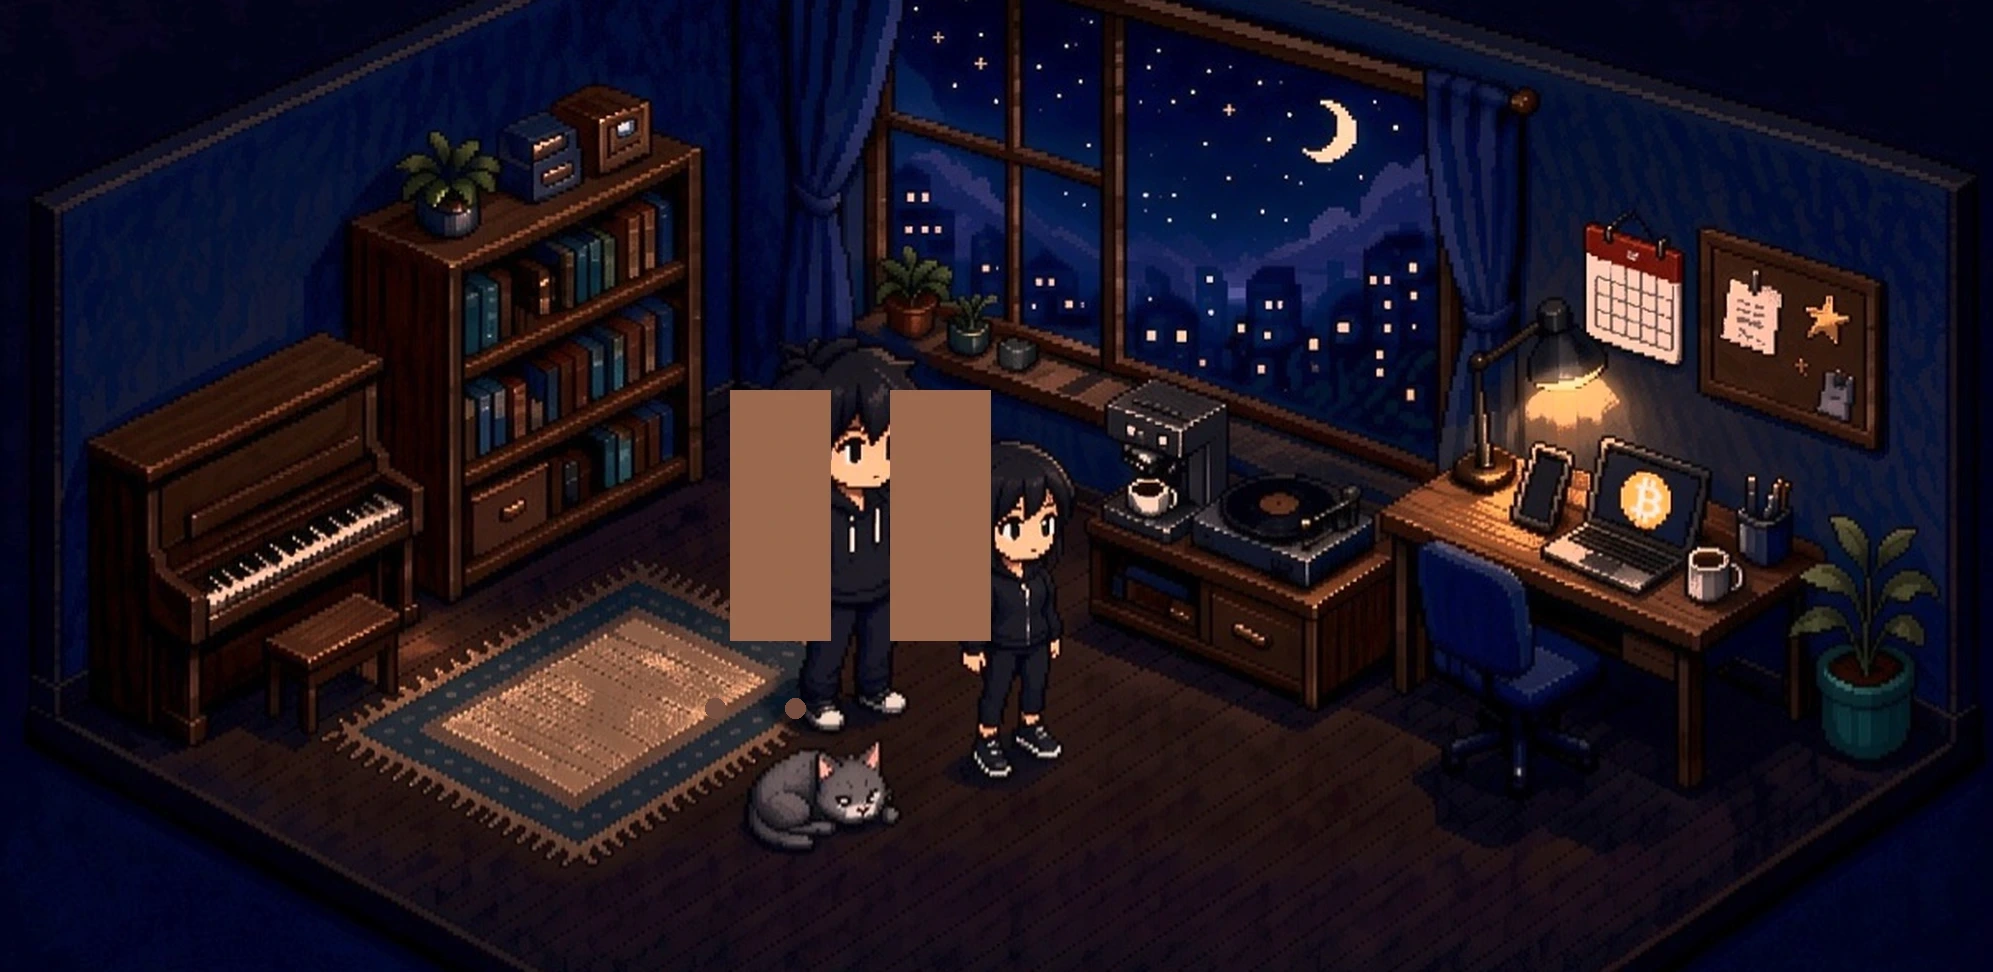
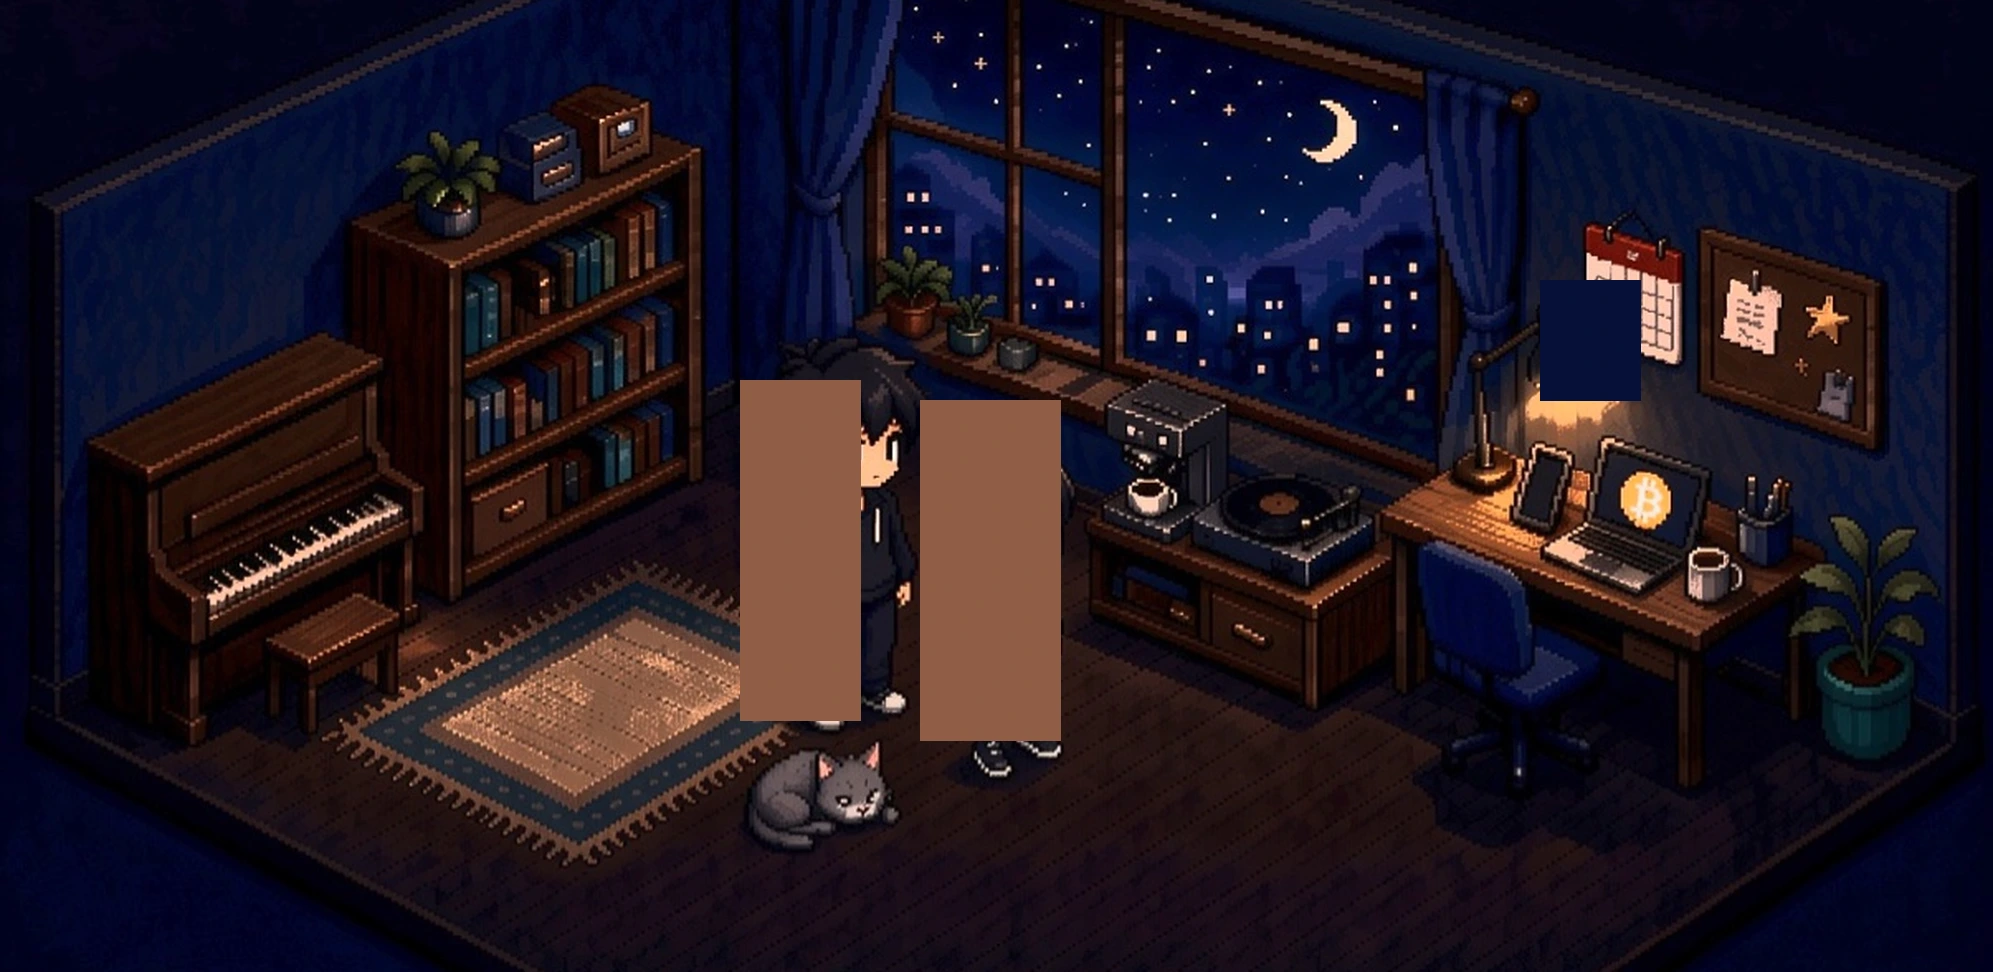
v5.0: SVG rebuild, single viewBox (no misalignment possible). Day/night plates cross-fade 06-18. SVG weather in window (Hangzhou live). Pixel-arrow hints, no text labels. Piano keys + vinyl with day/night coords. Tap-to-walk.

Changed region(s): [[0.3422, 0.3704, 0.56, 0.7716], [0.7466, 0.2778, 0.8399, 0.4321]]

diff --git a/index.html b/index.html
@@ -27,8 +27,6 @@
     display:flex; align-items:center; justify-content:center; font-size:13px; padding:0 12px; text-align:center; }
   .steam { animation:steamUp 2.2s ease-in-out infinite; }
   @keyframes steamUp { 0% { transform:translateY(0); opacity:0; } 30% { opacity:.7; } 100% { transform:translateY(-28px); opacity:0; } }
-  #catTail { transform-box:fill-box; transform-origin:20% 80%; animation:tailWag 2.4s ease-in-out infinite; }
-  @keyframes tailWag { 0%,100% { transform:rotate(-8deg); } 50% { transform:rotate(12deg); } }
   #vinyl { transform-box:fill-box; transform-origin:center; }
   #vinyl.spin { animation:spin 1.8s linear infinite; }
   @keyframes spin { to { transform:rotate(360deg); } }
@@ -45,12 +43,9 @@
 
   <!-- 咖啡热气 -->
   <g id="steam" opacity="0.8">
-    <path class="steam" d="M1520,480 q6,-10 0,-20 q-6,-10 0,-20" stroke="#fff" stroke-width="3" fill="none" opacity="0.6" style="animation-delay:0s"/>
-    <path class="steam" d="M1532,482 q6,-10 0,-20 q-6,-10 0,-20" stroke="#fff" stroke-width="3" fill="none" opacity="0.6" style="animation-delay:0.7s"/>
+    <path class="steam" d="M1650,570 q6,-10 0,-20 q-6,-10 0,-20" stroke="#fff" stroke-width="3" fill="none" opacity="0.6" style="animation-delay:0s"/>
+    <path class="steam" d="M1662,572 q6,-10 0,-20 q-6,-10 0,-20" stroke="#fff" stroke-width="3" fill="none" opacity="0.6" style="animation-delay:0.7s"/>
   </g>
-
-  <!-- 猫尾巴（摇摆） -->
-  <ellipse id="catTail" cx="720" cy="750" rx="28" ry="10" fill="#6a6a7a"/>
 
   <!-- 人物 -->
   <ellipse id="girlShadow" class="shadow" cx="0" cy="0" rx="34" ry="10"/>
